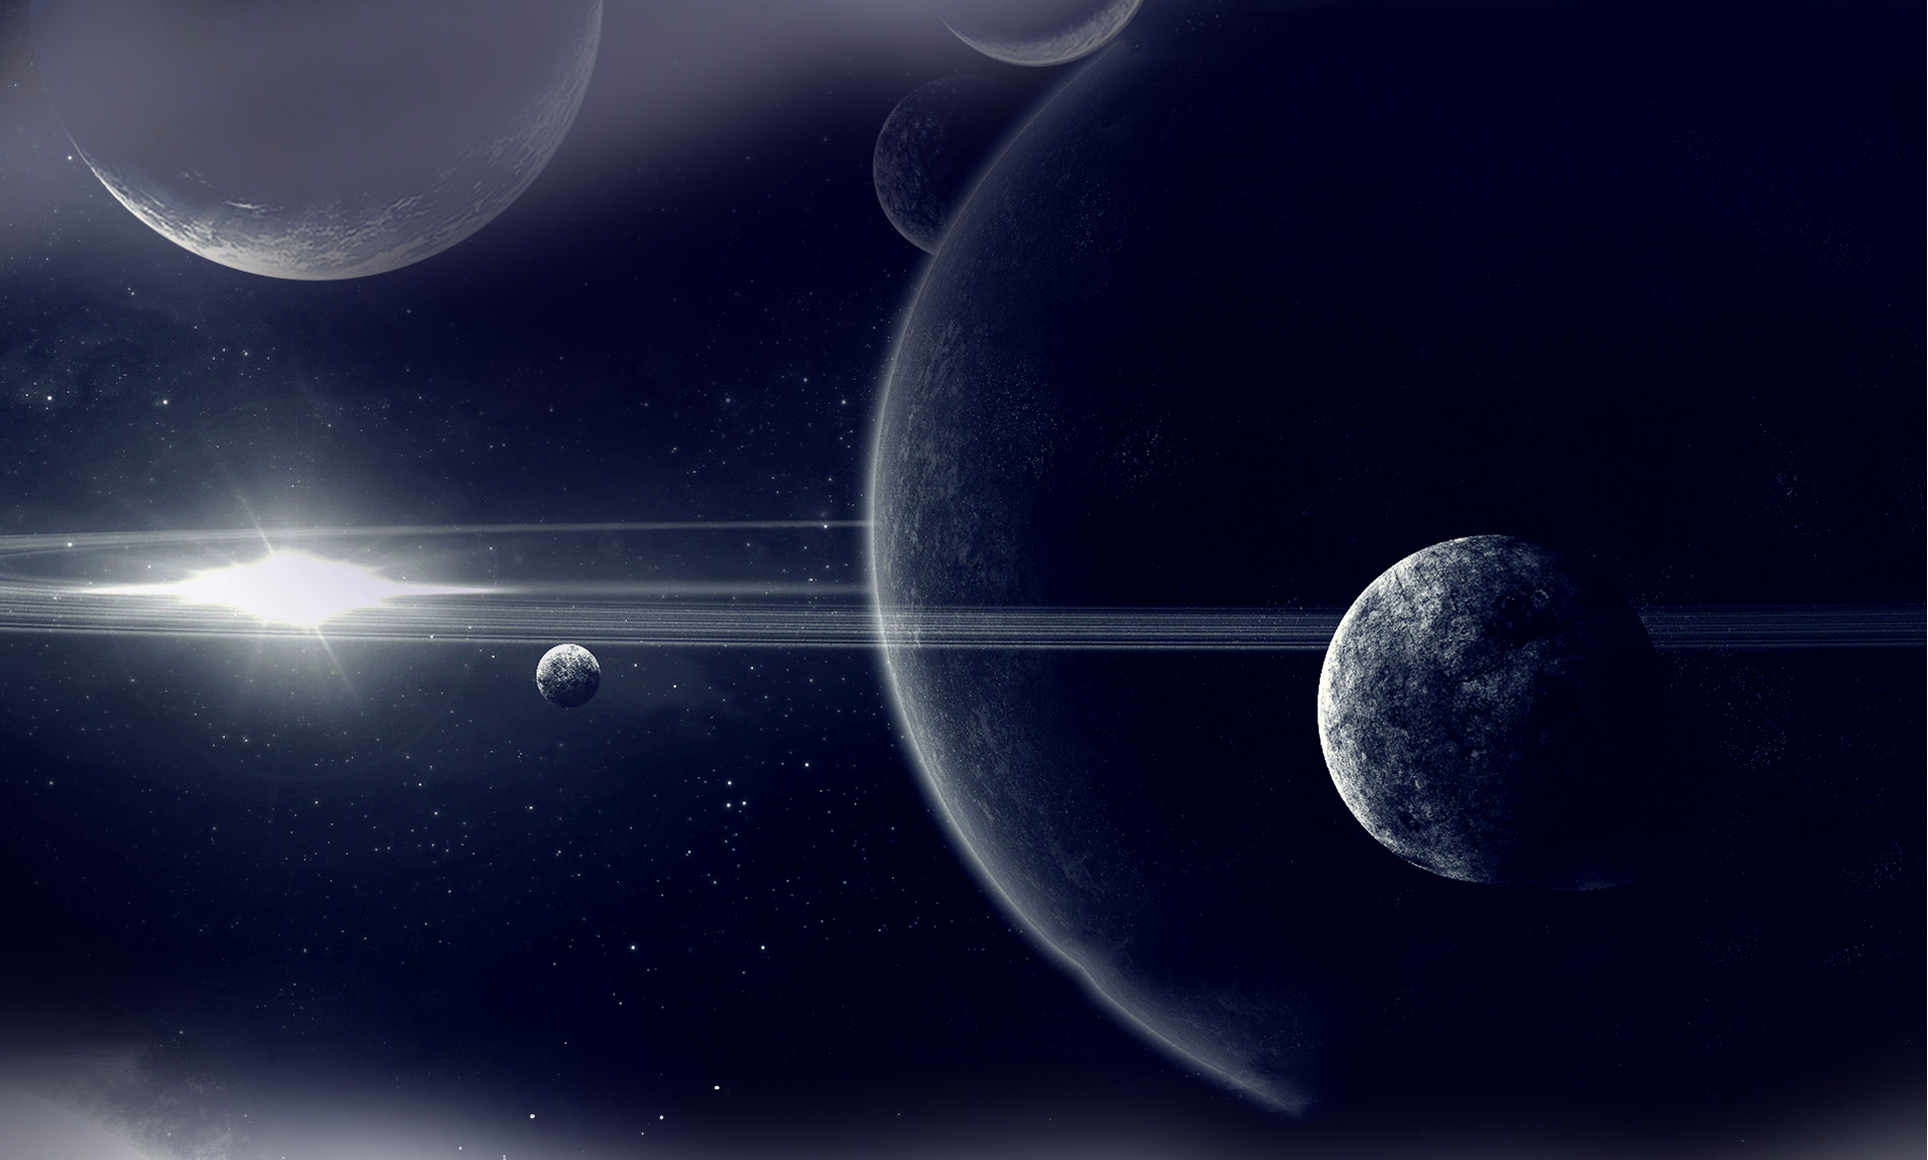
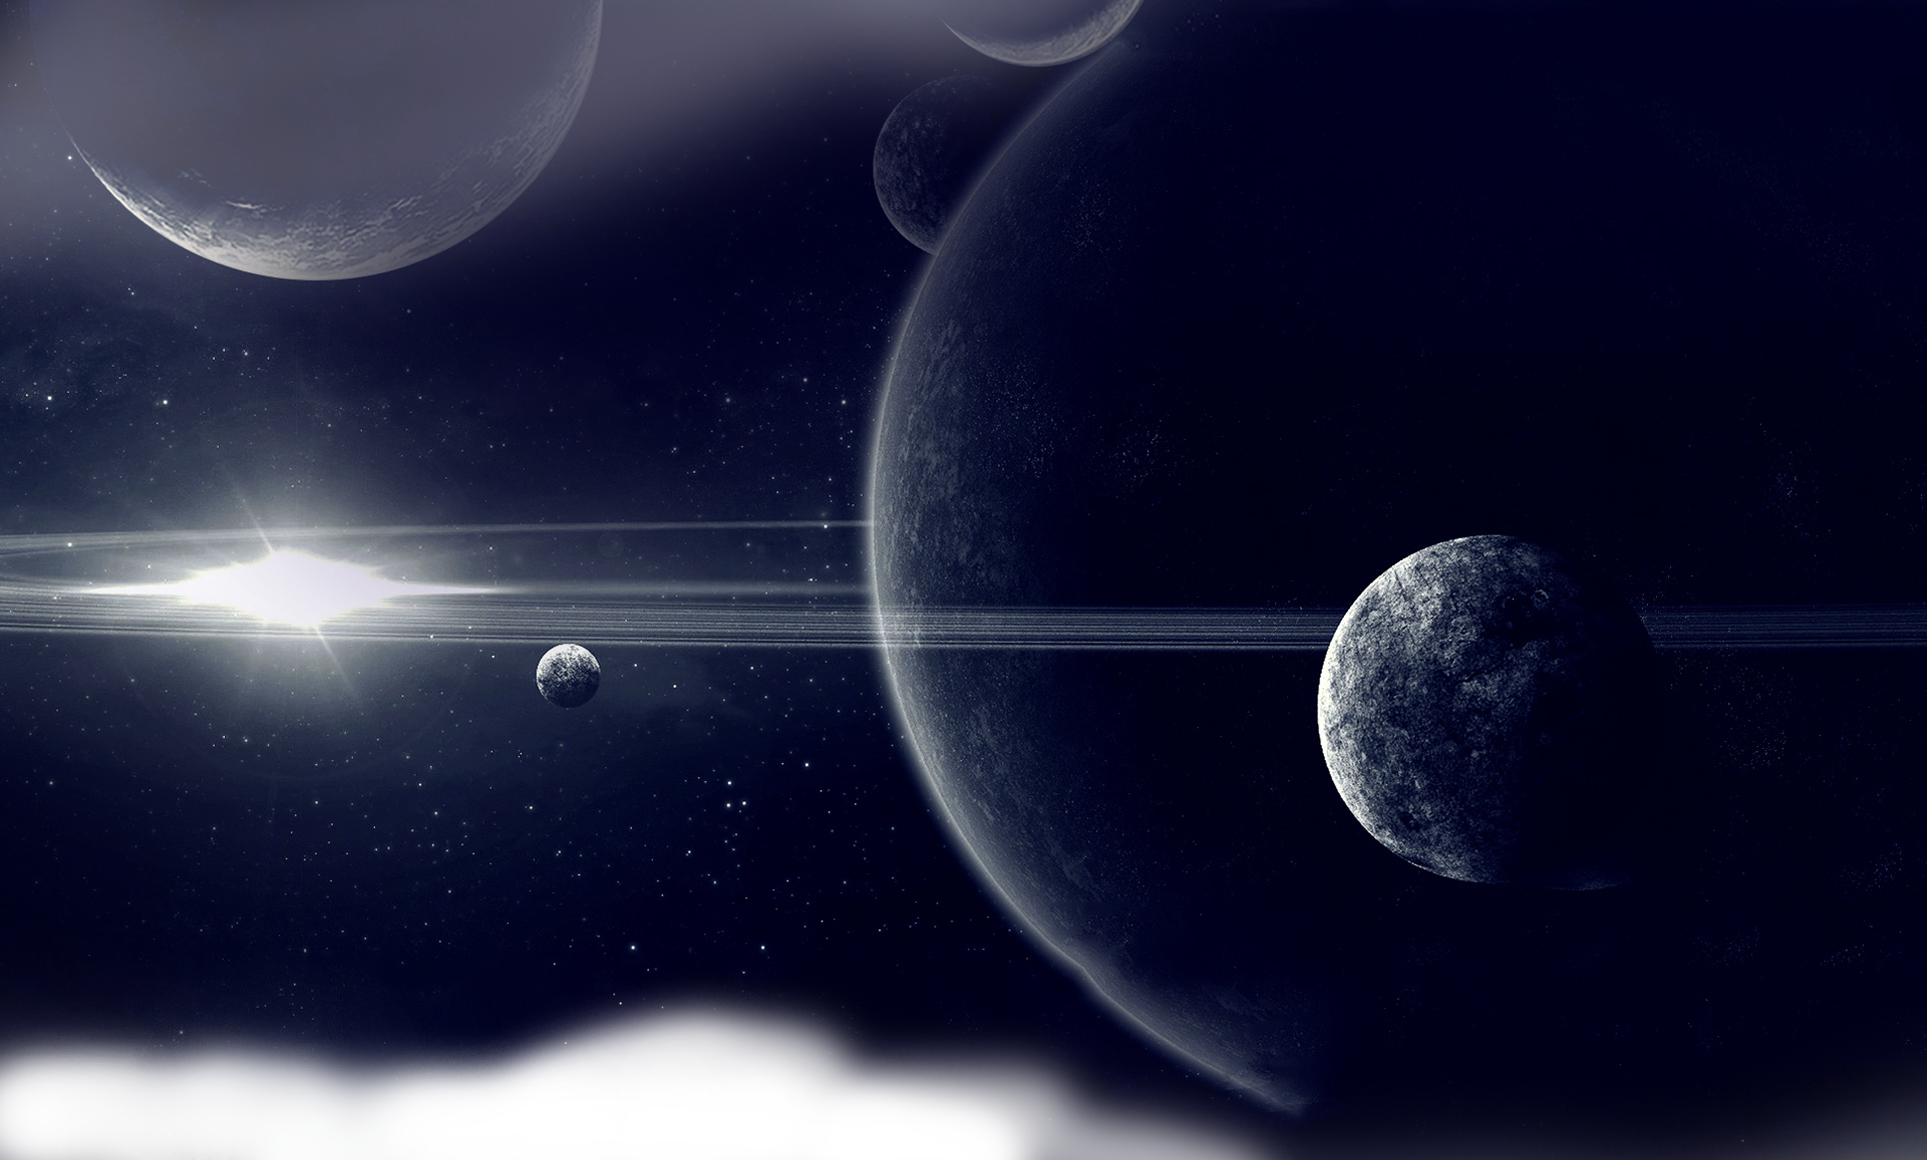
2016.9.13

Changed region(s): [[0.0, 0.8379, 0.6846, 1.0]]

diff --git a/xtao/index.html b/xtao/index.html
@@ -26,7 +26,8 @@
 			</nav>
 		</header>
 		<section class="intro clearfix">
-			<img class="introImg" src="image/1.png" alt="page"><img class="headerTitle" src="image/headerTitle.png" alt="page1">
+			<img class="introImg" src="image/1.png" alt="page">
+			<!-- <img class="headerTitle" src="image/headerTitle.png" alt="page1"> -->
 		<!-- 	<img class="headerBall ball" src="image/headerBall.png">
 			<img class="headerBall2 ball" src="image/headerBall2.png"> -->
 		</section>
@@ -42,7 +43,7 @@
 		</section>
 		<section class="universe" data-top="-200">
 			<div id="track" class="track-wrapper" data-top="100"></div>
-			<div id="half-ball"></div>
+			<div id="half-ball"><img src="image/球.png"></div>
 			<div class="word-content">
 				<h2>极道数据管理· DATA MANAGEMENT</h2>
 				<div class="main-content">
@@ -61,6 +62,8 @@
 			</div>
 		</section>
 		<section class="ground">
+			<img src="image/1-10.png" alt="" class="icon-bot">
+			<img src="image/1-14.png" alt="" class="icon-bot">
 			<img src="image/ground.png" alt="ground">
 		</section>
 	</div>

diff --git a/xtao/css/index.css b/xtao/css/index.css
@@ -216,14 +216,17 @@ nav {
 	background-size: 100%;
 }
 
-#half-ball {
-	background-image: url("../image/3.png");
+/*#half-ball {
+	background-image: url("../image/球.png");
 	position: absolute;
 	min-height: 800px;
 	width: 100%;
-	background-size: 100% 100%;
+	background-size: cover;
 	z-index: 1;
 	background-repeat: no-repeat;
+}*/
+#half-ball {
+	position: absolute;
 }
 
 .universe .word-content{
@@ -244,4 +247,14 @@ nav {
 
 .ground {
 	font-size: 0px;
+	/*position: relative;*/
+}
+
+.icon-bot {
+	margin-top: 100px;
+	width: 20%;
+	left: 0;
+	right: 0;
+	margin: 210px auto 0;
+	position: absolute;
 }
